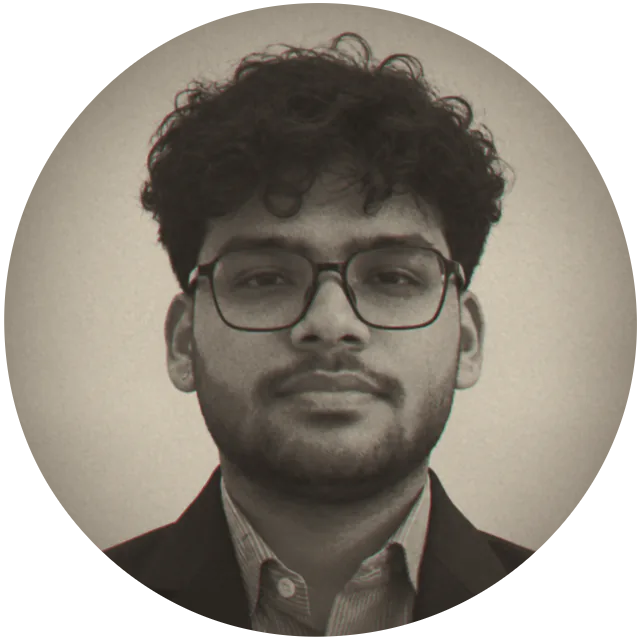
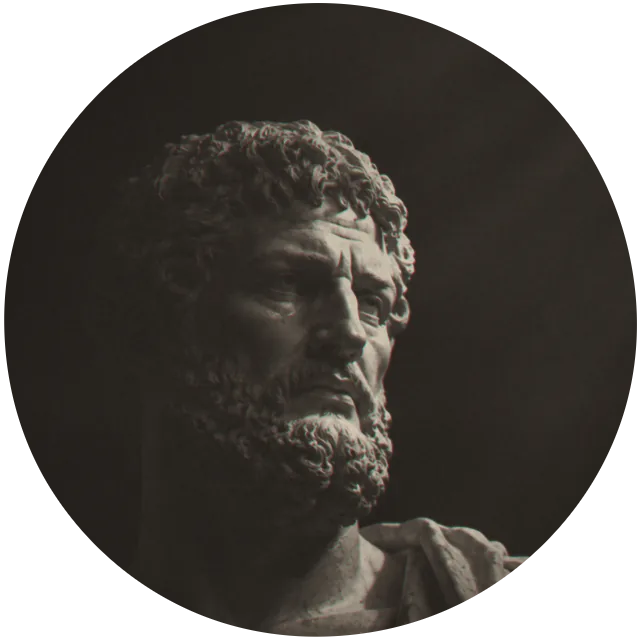
The observed is a statue now
The ring holds a marble head looking up into a shaft of light instead of a
photograph of me. A statue is a body made to outlast the person, which is the
list above it made in stone: even the most durable picture of a self is still
only a body, and still only the observed. Everything around it -- the rim,
the hairline, the placement, the light, the develop on scroll -- is unchanged.

The print treatment needed one step it did not have: exposure. It was tuned
on a bright source with a white background; a low-key statue against black
came out as mud, the marble in dull greys and the rays gone. The build now
stretches the source's 1st-99.6th percentile tones onto the full range before
fading them, the way a darkroom sets exposure per negative -- percentiles, so
one glint cannot set it for the whole print.

The crop sets the face left of centre with its gaze going up toward the
light. Alt text describes the statue; the old description of me is gone.
Still seeded and byte-identical on rebuild; 16kB.

diff --git a/src/content/portrait.ts b/src/content/portrait.ts
@@ -2,8 +2,10 @@
  * The portrait in "Who am I?", and the few words it carries.
  *
  * It sits beside the answer to a list the visitor has just watched being struck out — a
- * name, a body, a collection of memories — so it does not need to say what it is. A
- * photograph is the plainest possible picture of "a body".
+ * name, a body, a collection of memories — so it does not need to say what it is. It is a
+ * statue rather than a photograph of anyone: a body made to outlast the person, which is
+ * the list's point made in marble — even the most durable picture of a self is still only
+ * a body, and still only the observed.
  *
  * The ring around it reads like the engraving on the rim of a lens: the witness written on
  * the instrument you look through, the observed on what is inside it. It deliberately does
@@ -12,8 +14,8 @@
  * unexplained.
  */
 export const portrait = {
-  /** Describes the photograph, not the treatment: what a sighted visitor sees in it. */
-  alt: "Ujjawal Bansal: curly hair, glasses, a dark jacket over a striped shirt",
+  /** Describes the image, not the treatment: what a sighted visitor sees in it. */
+  alt: "A marble statue of a bearded man, looking up into a shaft of light",
   /**
    * The ring, one pass. Repeated round the circle by the component. साक्षी is verified in
    * docs/SOURCES.md (the hero's background): sākṣī, the witness.
